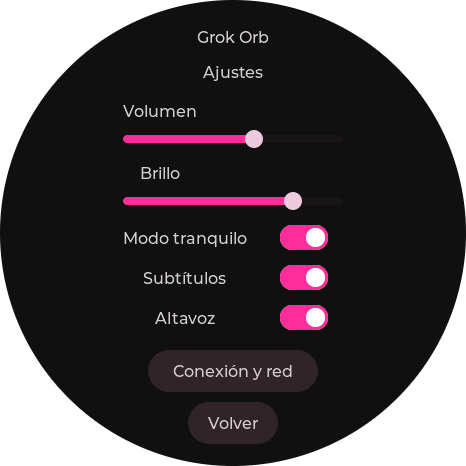
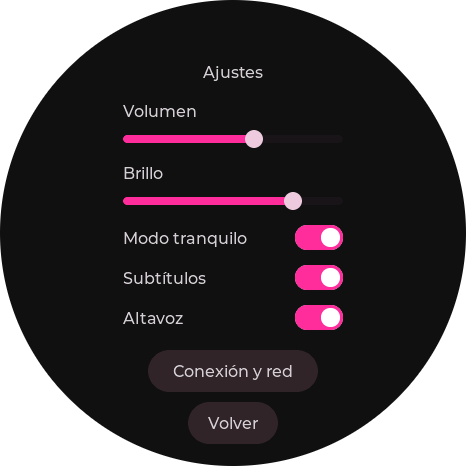
Ordena la pantalla de Ajustes
Arriba solo «Ajustes» (la batería, si la hay) y las etiquetas alineadas a la
izquierda en la misma columna que los deslizadores y los interruptores.

diff --git a/firmware/pet/components/pet_ui/pet_ui.c b/firmware/pet/components/pet_ui/pet_ui.c
@@ -69,7 +69,7 @@ static void slider_changed(lv_event_t *event){
     if(lv_event_get_code(event)==LV_EVENT_VALUE_CHANGED)action(o==volume_slider?PET_UI_VOLUME:PET_UI_BRIGHTNESS,lv_slider_get_value(o));
 }
 static lv_obj_t *slider(lv_obj_t *parent,const char *text,int y,int min,int max){
-    lv_obj_t *txt=label(parent,text,100);lv_obj_set_pos(txt,110,y);
+    lv_obj_t *txt=label(parent,text,220);lv_obj_set_style_text_align(txt,LV_TEXT_ALIGN_LEFT,0);lv_obj_set_pos(txt,123,y);
     lv_obj_t *s=lv_slider_create(parent);lv_obj_set_size(s,220,8);lv_obj_set_pos(s,123,y+33);
     lv_slider_set_range(s,min,max);lv_obj_set_style_bg_color(s,lv_color_hex(0x4b3341),LV_PART_MAIN);
     lv_obj_set_style_bg_color(s,lv_color_hex(0xfa2c99),LV_PART_INDICATOR);
@@ -83,8 +83,9 @@ static void switch_changed(lv_event_t *event){
     action(kind,lv_obj_has_state(o,LV_STATE_CHECKED));
 }
 static lv_obj_t *toggle(lv_obj_t *parent,const char *text,int y){
-    lv_obj_t *txt=label(parent,text,160);lv_obj_set_pos(txt,105,y+4);
-    lv_obj_t *o=lv_switch_create(parent);lv_obj_set_size(o,48,25);lv_obj_set_pos(o,280,y);
+    lv_obj_t *txt=label(parent,text,160);lv_obj_set_style_text_align(txt,LV_TEXT_ALIGN_LEFT,0);lv_obj_set_pos(txt,123,y+4);
+    /* Borde derecho del interruptor (295+48) alineado con el de los deslizadores (123+220). */
+    lv_obj_t *o=lv_switch_create(parent);lv_obj_set_size(o,48,25);lv_obj_set_pos(o,295,y);
     lv_obj_set_style_bg_color(o,lv_color_hex(0xfa2c99),LV_PART_INDICATOR|LV_STATE_CHECKED);
     lv_obj_add_event_cb(o,switch_changed,LV_EVENT_VALUE_CHANGED,NULL);return o;
 }
@@ -167,7 +168,8 @@ static void draw(lv_timer_t *timer){
         char code[32];if(current.passkey)snprintf(code,sizeof(code),PET_STR_PASSKEY_FMT,current.passkey);else code[0]=0;
         lv_label_set_text(passkey_label,code);
     }
-    char battery[32];if(current.battery>=0)snprintf(battery,sizeof(battery),PET_STR_BATTERY_FMT,current.battery);else snprintf(battery,sizeof(battery),"%s",PET_DISPLAY_NAME);
+    /* Encima de «Ajustes» solo la batería, y solo si hay batería. */
+    char battery[32];if(current.battery>=0)snprintf(battery,sizeof(battery),PET_STR_BATTERY_FMT,current.battery);else battery[0]=0;
     if(page)lv_label_set_text(power_label,battery);
     if(snap)snapshot();
 }

diff --git a/docs/PORT_1.75C.md b/docs/PORT_1.75C.md
@@ -235,7 +235,8 @@ El bot por defecto es **«Grok Orb»** (decisión D2): sin `--bot` ni
   La fuente CJK de Unifont (`muse_font_cjk_16.c`) **solo se compila en el build
   en chino**; en español no entra en el binario.
 - **Nombre en pantalla** con `CONFIG_PET_DISPLAY_NAME` (mismo menú), «Grok Orb»
-  por defecto: es lo que aparece encima de Ajustes cuando no hay batería.
+  por defecto. Ahora mismo no se muestra: desde que se ordenó Ajustes, encima
+  solo aparece la batería, y solo si la hay.
 
 ## Pendiente de comprobar en la placa
 
